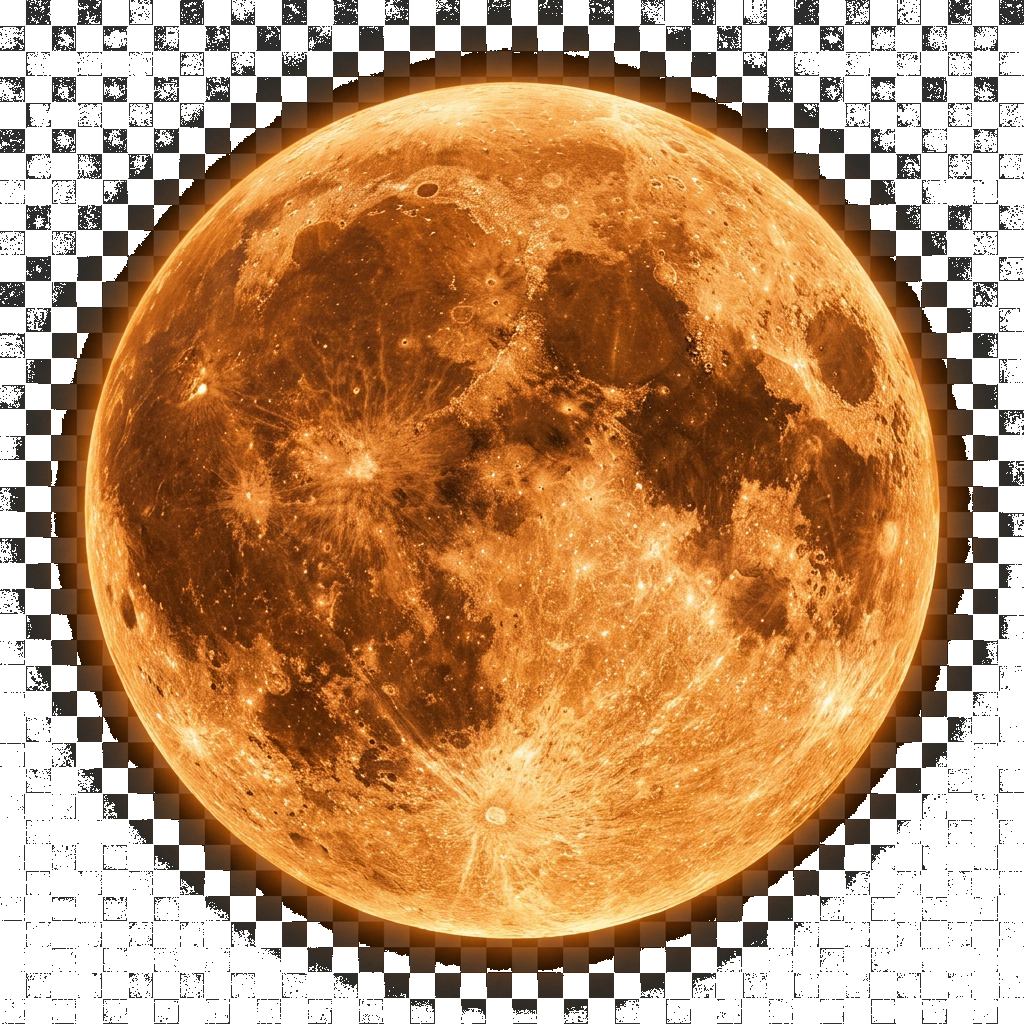
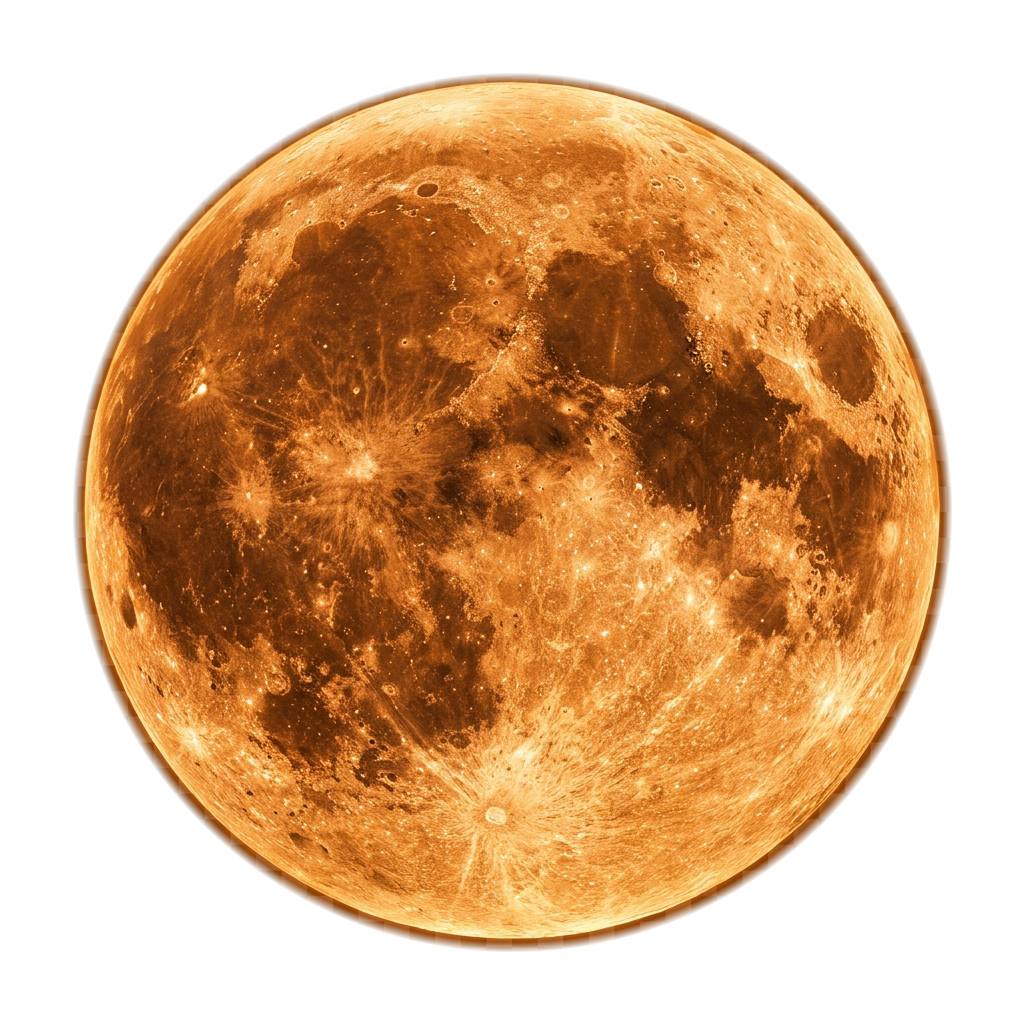
fix: apply strict circular crop and feathering on moon images and add cache busters

diff --git a/style.css b/style.css
@@ -278,8 +278,8 @@ html, body {
 }
 
 /* Seasonal moons */
-.moon-bg.default-moon { background-image: url('/moon-isolated.png'); }
-.moon-bg.autumn-moon { background-image: url('/moon-isolated-autumn.png'); }
+.moon-bg.default-moon { background-image: url('/moon-isolated.png?v=3'); }
+.moon-bg.autumn-moon { background-image: url('/moon-isolated-autumn.png?v=3'); }
 
 .spring .default-moon,
 .summer .default-moon,
@@ -902,7 +902,7 @@ html, body {
   height: 3.5vw;
   min-width: 35px;
   min-height: 35px;
-  background-image: url('/moon-isolated.png');
+  background-image: url('/moon-isolated.png?v=3');
   background-size: contain;
   background-position: center;
   background-repeat: no-repeat;